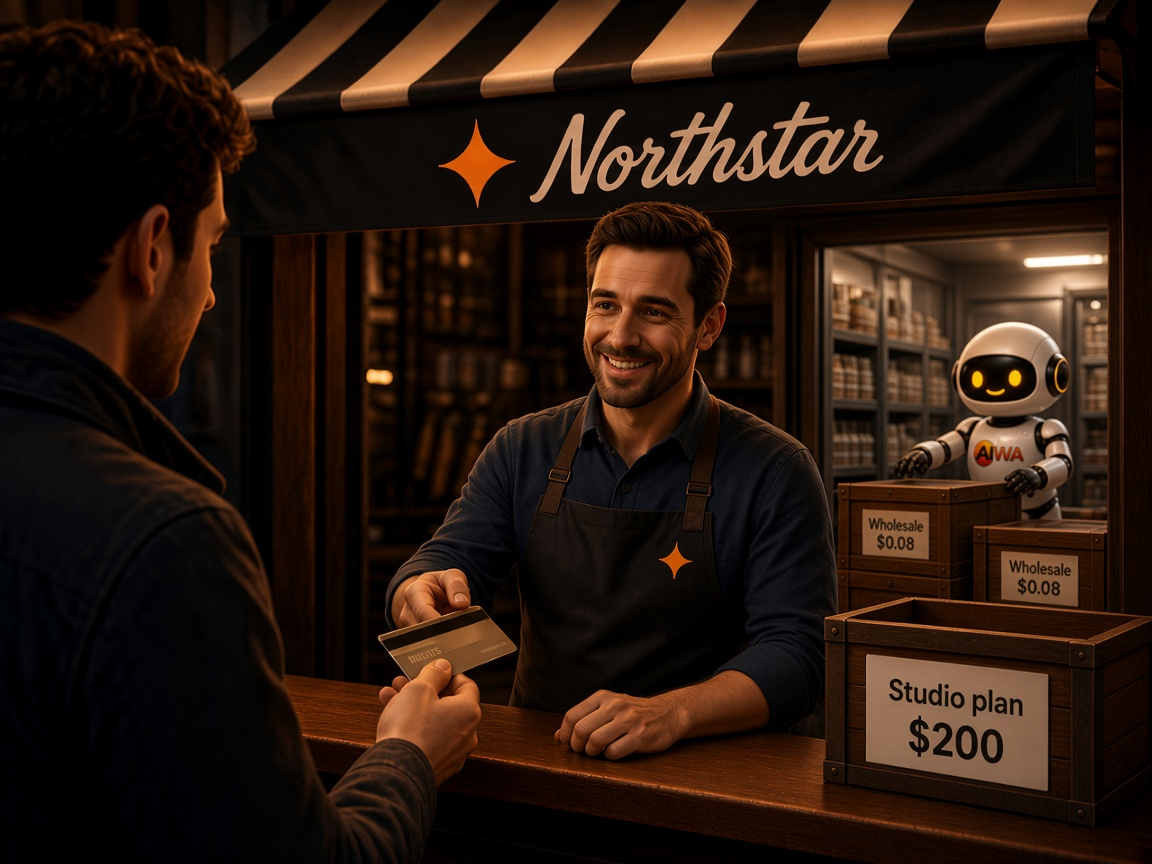
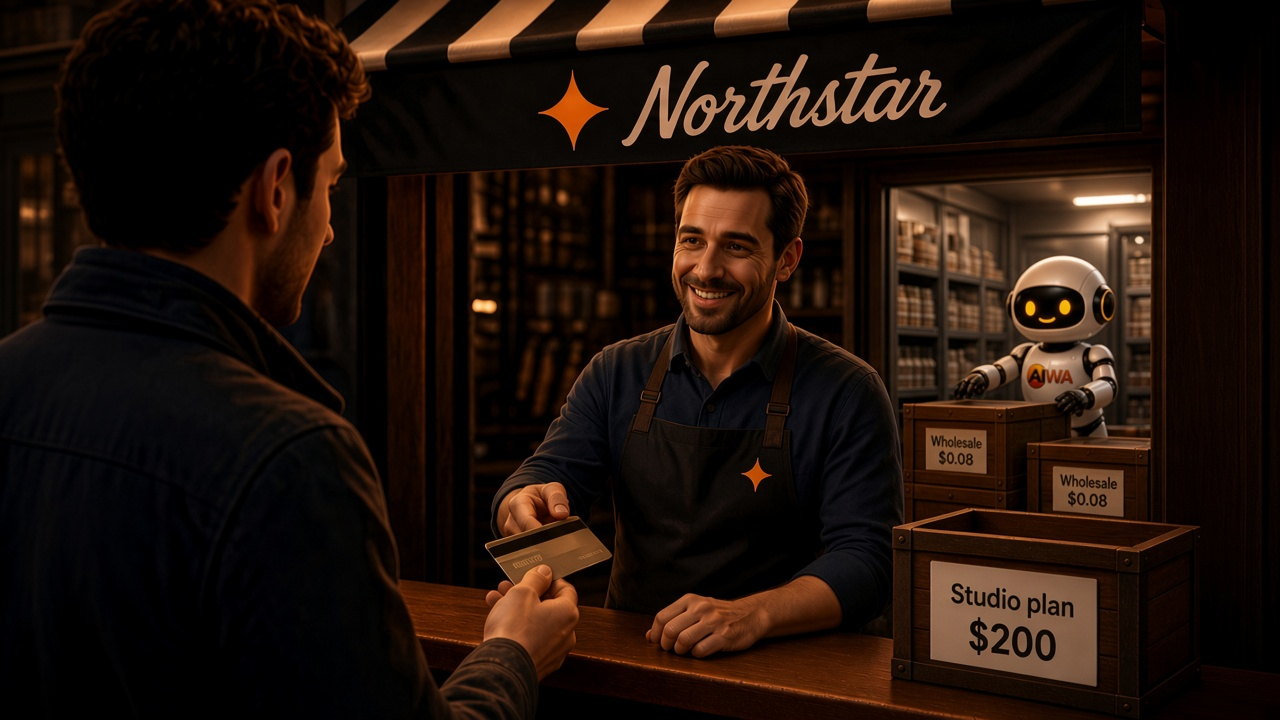
Updated wl

diff --git a/public/white-label/index.html b/public/white-label/index.html
@@ -480,9 +480,8 @@
       </div>
       <div class="wl-econ-side">
         <figure class="wl-econ-visual">
-          <img src="/images/wl-resale-storefront.png?v=4" alt="Northstar storefront: customer pays Northstar for a $200 Studio plan; AIWA supplies wholesale credits at $0.08 in the back" width="1600" height="1200" loading="lazy" decoding="async" />
+          <img src="/images/wl-resale-storefront.png?v=5" alt="Northstar storefront: customer pays Northstar for a $200 Studio plan; AIWA supplies wholesale credits at $0.08 in the back" width="1600" height="900" loading="lazy" decoding="async" />
         </figure>
-        <p class="wl-econ__note">Your credit pool funds customer allocations. Keep it funded so purchases and renewals can receive their credits. Any supported free credit allowance is funded by you too.</p>
       </div>
     </div>
   </div>

diff --git a/public/css/page.css b/public/css/page.css
@@ -1116,17 +1116,10 @@
   align-content: start;
   min-width: 0;
 }
-.wl-econ__note {
-  margin: 0;
-  font-size: 0.9rem;
-  color: var(--cream-300);
-  line-height: 1.65;
-  max-width: none;
-}
 .wl-econ-visual {
   margin: 0;
   width: 100%;
-  aspect-ratio: 4 / 3;
+  aspect-ratio: 16 / 9;
   max-height: 18.5rem;
   border-radius: 1.2rem;
   overflow: hidden;
@@ -1138,7 +1131,7 @@
   width: 100%;
   height: 100%;
   object-fit: cover;
-  object-position: center;
+  object-position: center center;
 }
 @media (max-width: 900px) {
   .wl-econ-layout { grid-template-columns: 1fr; }

diff --git a/EDIT-LOG.md b/EDIT-LOG.md
@@ -4,6 +4,21 @@ Running record of design/implementation changes made while owning the lander dir
 
 ---
 
+## 2026-09-15 — Resale: drop pool tip under image
+
+- Removed the credit-pool “keep it funded” note under the storefront art (didn’t match the image; lead + FAQ already cover the idea).
+- Files: `public/white-label/index.html`, `public/css/page.css`, `public/plan/white-label-lander-brief.md`.
+
+---
+
+## 2026-09-15 — Resale storefront: short frame + $0.08
+
+- Regenerated `#wl-economics` art as **16:9** so Northstar awning and crate labels stay visible in the short container (`max-height: 18.5rem`); wholesale crates **$0.08** (not $0.70).
+- Container `aspect-ratio` → `16 / 9`; image cache-bust `?v=5`.
+- Files: `public/images/wl-resale-storefront.png`, `public/css/page.css`, `public/white-label/index.html`.
+
+---
+
 ## 2026-09-15 — WL credit flat rate $0.70 → $0.08
 
 - Partner credit rate updated project-wide to **$0.08**/credit; example economics now **200 × $0.08 = $16**, difference before other expenses **$184**.

diff --git a/public/plan/white-label-lander-brief.md b/public/plan/white-label-lander-brief.md
@@ -199,8 +199,6 @@ Section ID: `wl-setup`.
 
 **Caption:** Illustrative pricing, not a preset plan or earnings guarantee. The $184 difference is before your program fee, payment fees, refunds, taxes, support, and other expenses. Actual results depend on your offer and costs.
 
-**Supporting copy:** Your credit pool funds customer allocations. Keep it funded so purchases and renewals can receive their credits. Any supported free credit allowance is funded by you too.
-
 **Internal note:** This is a 200-credit customer allowance illustration, not permission to buy a 200-credit wholesale pool block. The current pool minimum and launch decision are covered in section 10. A revenue animation must keep the full $200 customer payment separate from the $184 difference; it must not label $184 as a payout or net profit.
 
 ### F. Program pricing
